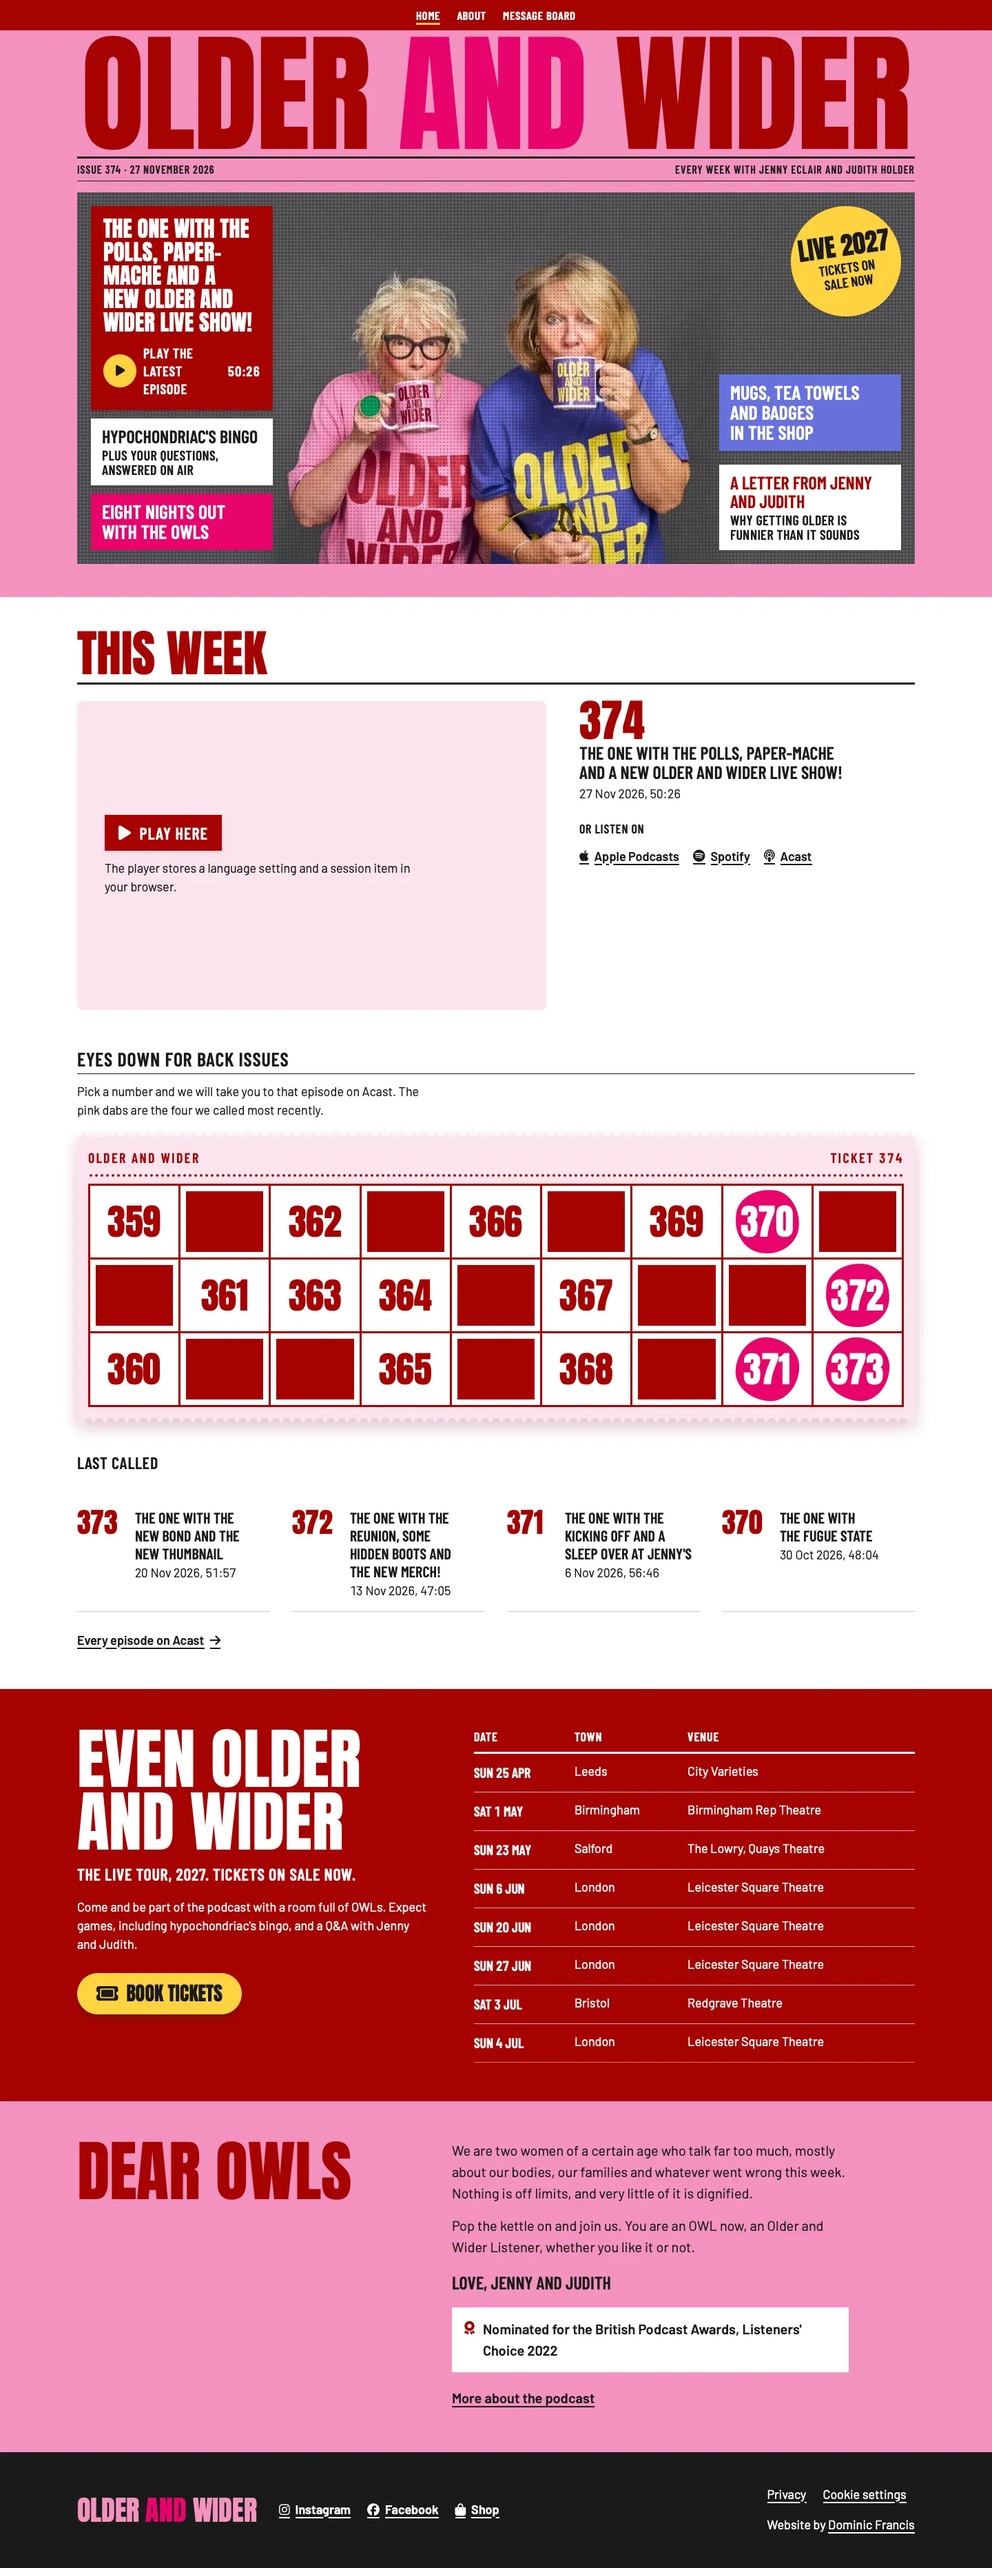
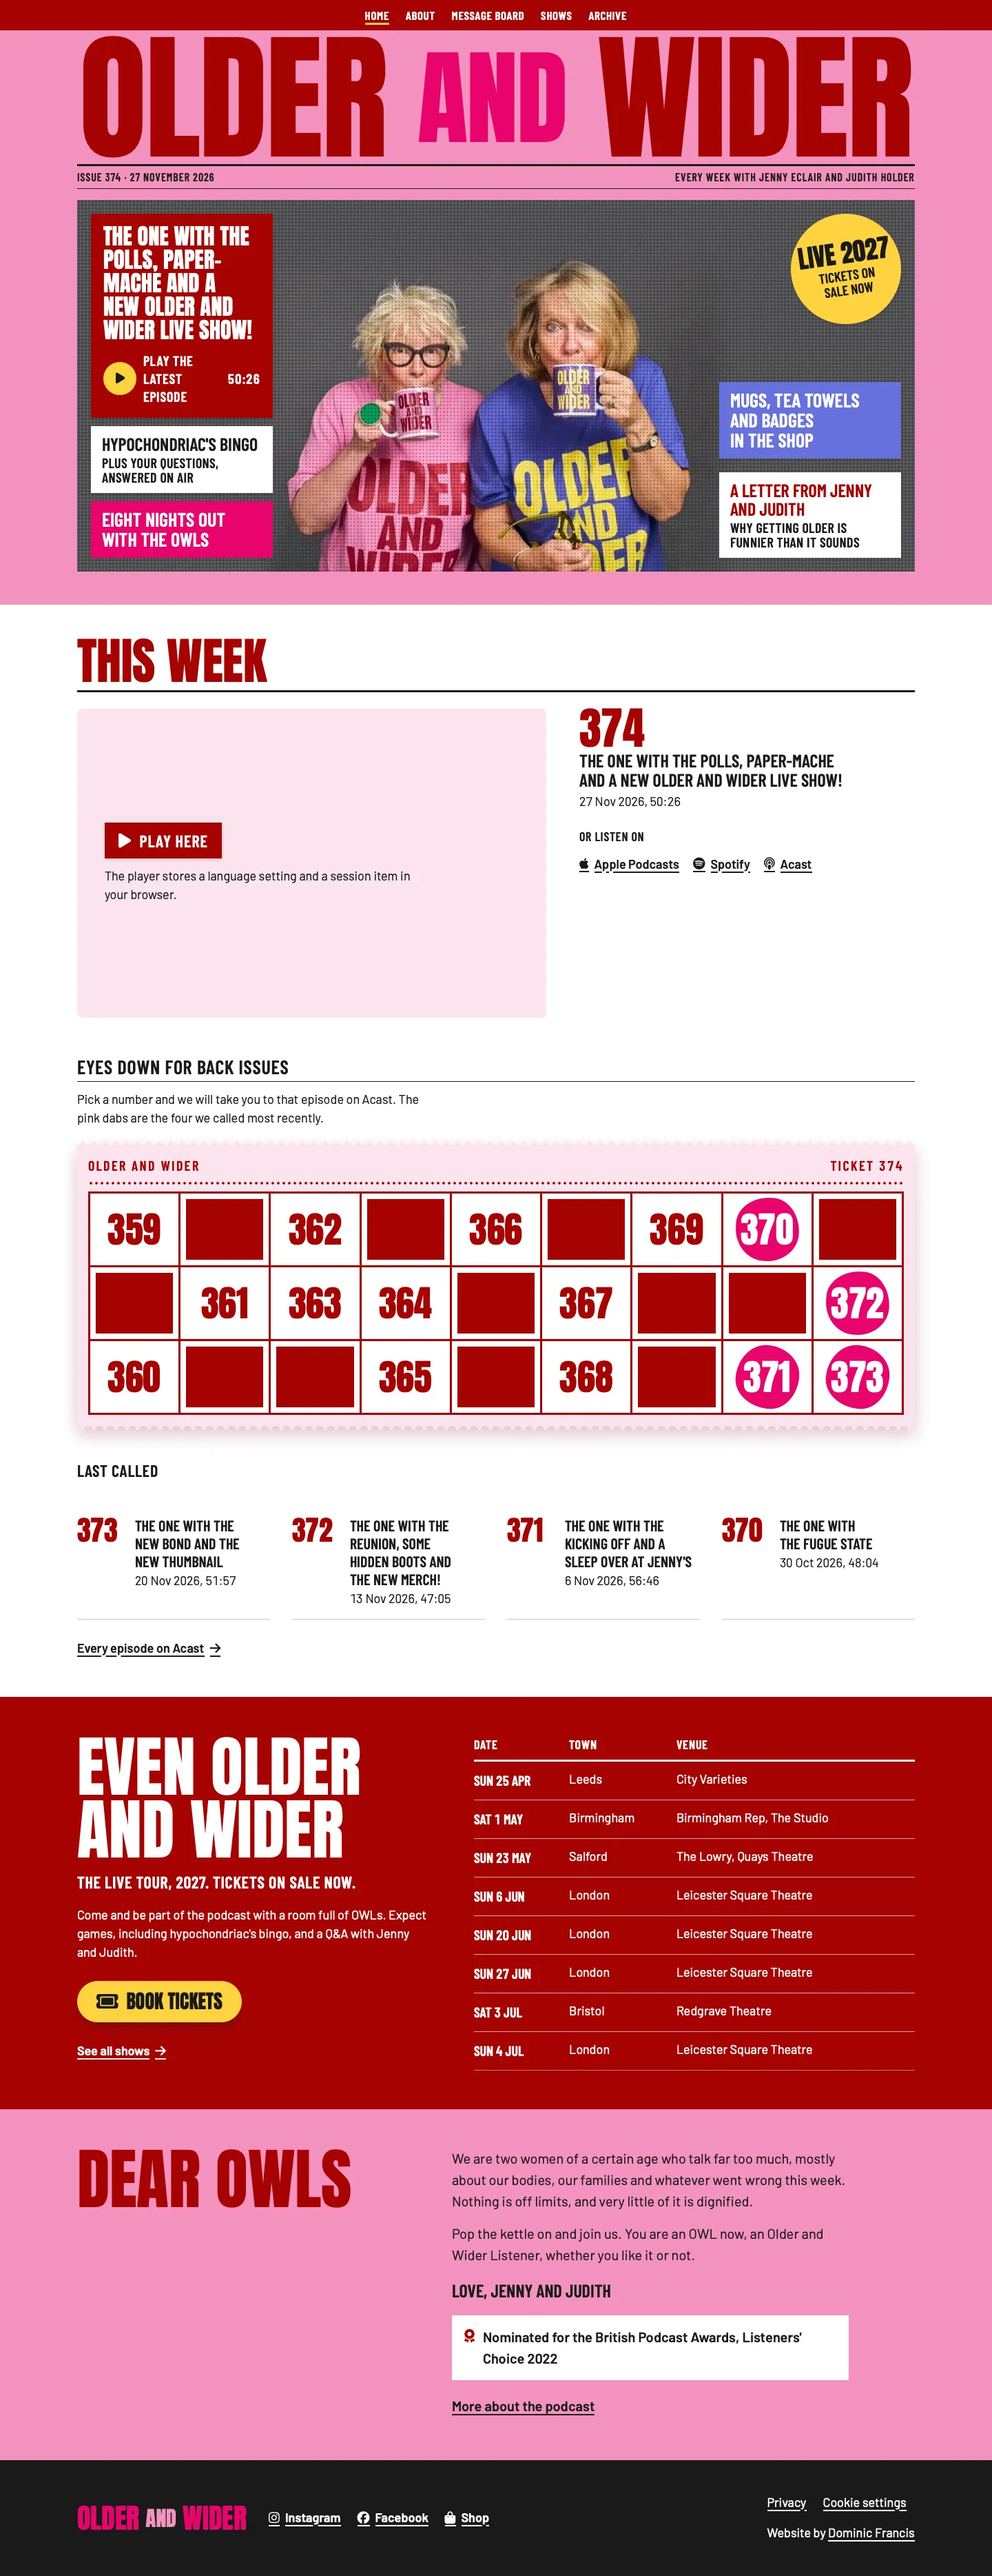
docs: replace the README screenshots
Take all screenshots again on the live site on 28 November 2026, in WebKit.
The new screenshots show the five-link navigation and the new message board header.
Add phone and desktop screenshots of the Shows and Archive pages.
Use desktop-index.webp in the Redesign comparison and delete desktop-index-redesign.webp.
Correct the page count and the sitemap list in the README.

diff --git a/README.md b/README.md
@@ -14,7 +14,7 @@ The [README as submitted](https://github.com/dvfrancis/older-and-wider/blob/152a
 
 | Submitted design (June 2024) | Current design (November 2026) |
 |---|---|
-| ![The home page as submitted, with a teal header, a photo carousel and red and green content panels](assets/images/website-index-feature.webp) | ![The home page after the redesign, with a pink masthead, a magazine cover photo and a bingo ticket of back issues](documentation/screenshots/desktop-index-redesign.webp) |
+| ![The home page as submitted, with a teal header, a photo carousel and red and green content panels](assets/images/website-index-feature.webp) | ![The home page after the redesign, with a pink masthead, a magazine cover photo and a bingo ticket of back issues](documentation/screenshots/desktop-index.webp) |
 
 ### Background Information
 
@@ -129,13 +129,15 @@ The show name is "Older and Wider". The site does not use an ampersand in the na
 
 ### Screenshots
 
-The screenshots show the live site on 27 November 2026, in Safari's engine (WebKit). The phone width is 390 px. The desktop width is 1440 px.
+The screenshots show the live site on 28 November 2026, in Safari's engine (WebKit). The phone width is 390 px. The desktop width is 1440 px.
 
 | Page | Phone | Desktop |
 |---|---|---|
 | Home | [Phone](documentation/screenshots/phone-index.webp) | [Desktop](documentation/screenshots/desktop-index.webp) |
 | About | [Phone](documentation/screenshots/phone-about.webp) | [Desktop](documentation/screenshots/desktop-about.webp) |
 | Message Board | [Phone](documentation/screenshots/phone-message-board.webp) | [Desktop](documentation/screenshots/desktop-message-board.webp) |
+| Shows | [Phone](documentation/screenshots/phone-live-shows.webp) | [Desktop](documentation/screenshots/desktop-live-shows.webp) |
+| Archive | [Phone](documentation/screenshots/phone-archive.webp) | [Desktop](documentation/screenshots/desktop-archive.webp) |
 | Privacy | [Phone](documentation/screenshots/phone-privacy.webp) | [Desktop](documentation/screenshots/desktop-privacy.webp) |
 | 404 | [Phone](documentation/screenshots/phone-404.webp) | [Desktop](documentation/screenshots/desktop-404.webp) |
 | Cookie banner | [Phone](documentation/screenshots/phone-consent-banner.webp) | [Desktop](documentation/screenshots/desktop-consent-banner.webp) |
@@ -214,7 +216,7 @@ The project keeps them for reference. The build script does not deploy them. The
 
     - Each page is responsive. The layout changes at 48rem (768px) and at 64rem (1024px).
     - Each page works without JavaScript.
-    - The site has six pages: Home, About, Live Shows, Message Board, Privacy and a custom 404 page.
+    - The site has seven pages: Home, About, Message Board, Shows, Archive, Privacy and a custom 404 page.
     - No third-party embed loads until the visitor asks for it. Google Analytics loads only after the visitor accepts analytics cookies.
     - Each link to another website opens in a new tab. The link has the attributes `rel="external noopener" target="_blank" aria-describedby="new-tab"`.
     - The footer of each page holds a hidden element `<span id="new-tab" hidden>Opens in a new tab</span>`. Screen readers read this text with each external link.
@@ -1022,7 +1024,7 @@ Keep the CSS for the embed markup in `assets/css/main.css`. List mode uses it if
 
 The repository root contains a `sitemap.xml` file and a `robots.txt` file. Both files are in the `PAGES` list. Thus they deploy to the root of the site, with `no-cache`.
 
-- `sitemap.xml` lists the pages for search engines. It lists the home page, `about.html`, `live-shows.html`, `message-board.html` and `privacy.html`. It does not list `404.html`, because that page has a `noindex` tag.
+- `sitemap.xml` lists the pages for search engines. It lists the home page, `about.html`, `live-shows.html`, `archive.html`, `message-board.html` and `privacy.html`. It does not list `404.html`, because that page has a `noindex` tag.
 - `robots.txt` lets all crawlers read all pages. It gives the address of the sitemap.
 
 When you add or remove a page, update `sitemap.xml`. Change the `lastmod` date of each page that you change.
